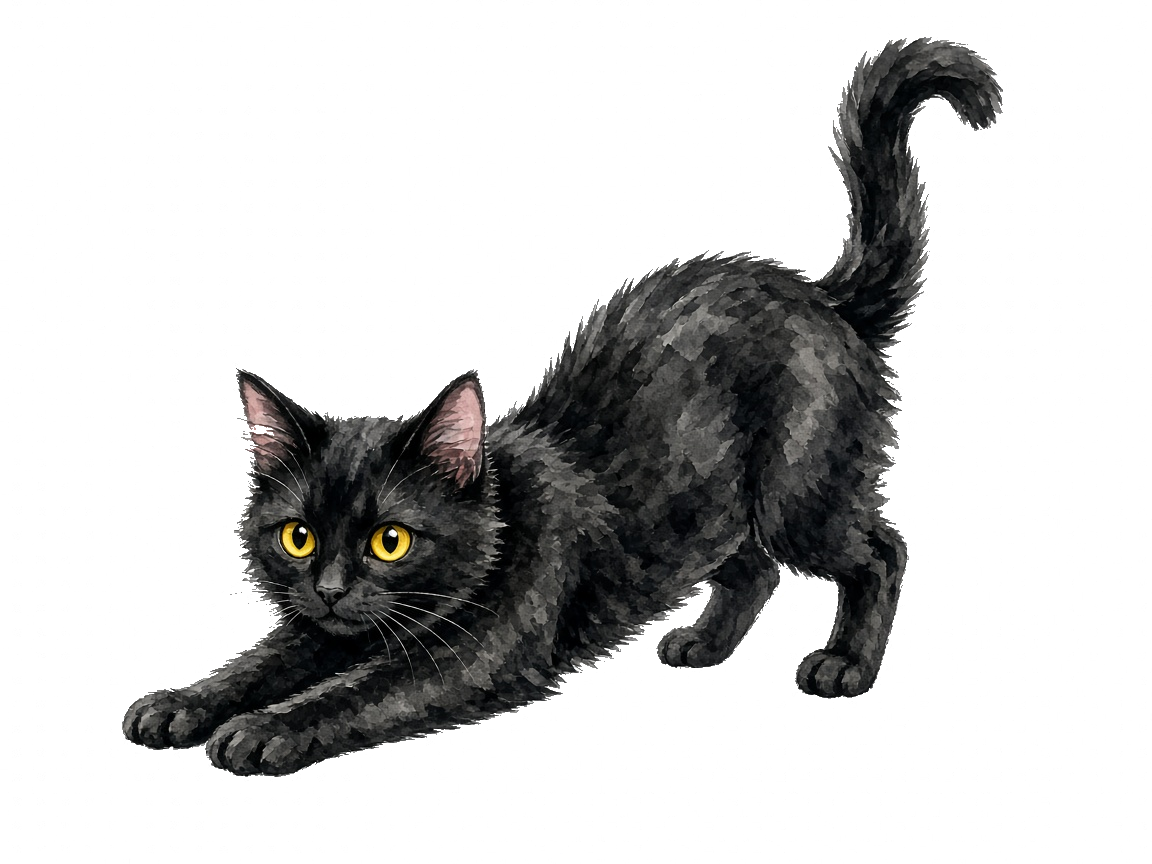
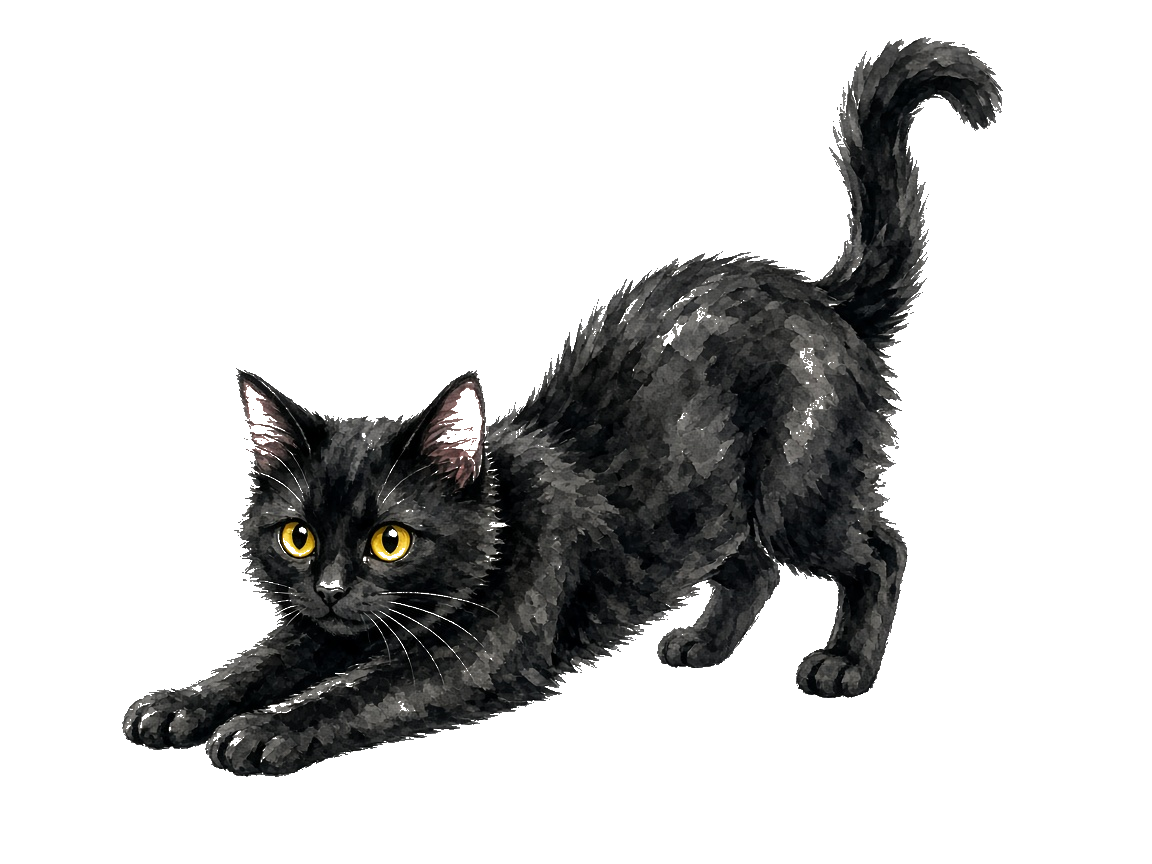
fix: tab bar explicit height + cat-focus.png full transparency
TAB BAR:
- Added explicit height = 49 (content) + 12 (paddingTop) + bottomPadding
- Web gets ~85px total (49+12+24), native adapts to insets
- Fixes collapsed tab bar on React Navigation web

CAT-FOCUS.PNG:
- Aggressive background removal: 0% near-white pixels now (was ~50%)
- All cats verified: idle 0.33%, focus 0.00%, break 0.14%, done 0.20%
- No more light rectangle on ink theme

diff --git a/src/navigation/AppNavigator.tsx b/src/navigation/AppNavigator.tsx
@@ -43,6 +43,7 @@ const TabNavigator: React.FC = () => {
   
   const minBottomPadding = Platform.OS === 'web' ? 24 : 8;
   const bottomPadding = Math.max(insets.bottom, minBottomPadding);
+  const tabBarHeight = 49 + 12 + bottomPadding;
 
   return (
     <Tab.Navigator
@@ -52,6 +53,7 @@ const TabNavigator: React.FC = () => {
           backgroundColor: theme.surface,
           borderTopColor: theme.border,
           borderTopWidth: 1,
+          height: tabBarHeight,
           paddingBottom: bottomPadding,
           paddingTop: 12,
         },
